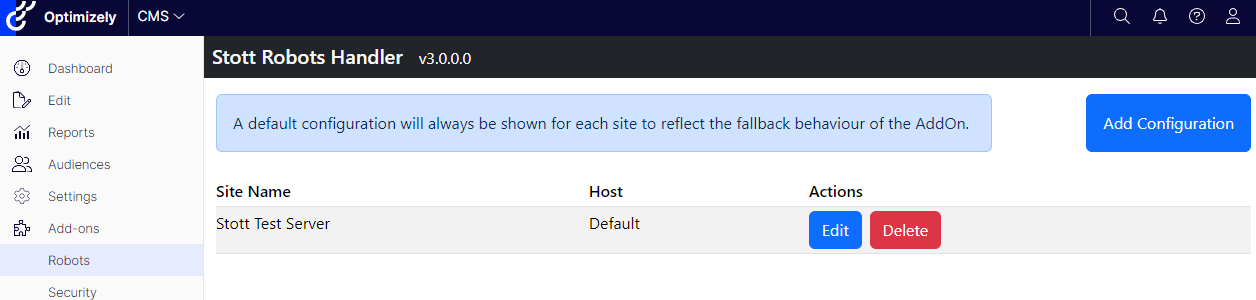
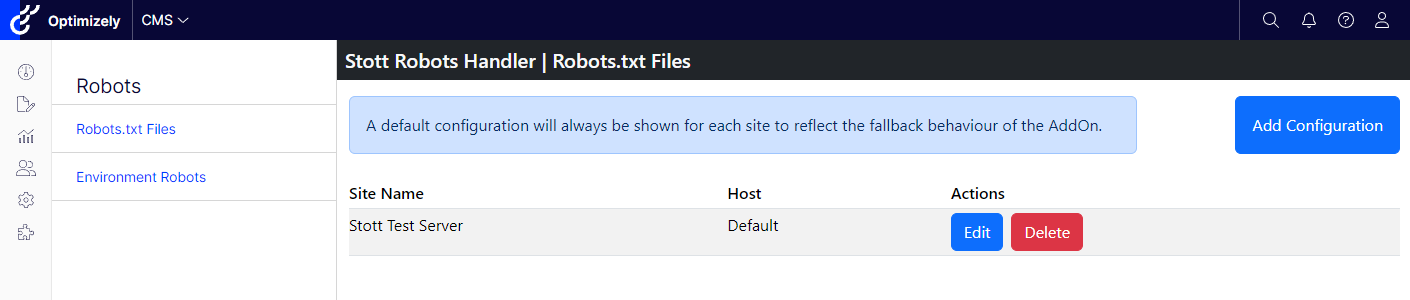
Set version number to 4.0.0 and update documentation.

diff --git a/README.md b/README.md
@@ -6,19 +6,53 @@
 ![GitHub Workflow Status](https://img.shields.io/github/actions/workflow/status/GeekInTheNorth/Stott.Optimizely.RobotsHandler/dotnet.yml?branch=main)
 ![Nuget](https://img.shields.io/nuget/v/Stott.Optimizely.RobotsHandler)
 
-This is an admin extension for Optimizely CMS 12+ for managing robots.txt on a per site and host definition basis.  The Stott.Optimizely.RobotsHandler project is a Razor Class Library which contains Razor Files, static JS files and relevent business logic specific to this functionality.
-
-![Stott Robots Handler](/StottRobotsList1.png)
-
-Stott Robots Handler is a free to use module, however if you want to show your support, buy me a coffee on ko-fi:
+This is an admin extension for Optimizely CMS 12+ for managing robots content. Stott Robots Handler is a free to use module, however if you want to show your support, buy me a coffee on ko-fi:
 
 [![ko-fi](https://ko-fi.com/img/githubbutton_sm.svg)](https://ko-fi.com/V7V0RX2BQ)
 
-## Configuration
+## Robots.Txt Management
+
+Robots.txt content can be managed on a per site and host definition basis.  A host of "default" applies to all unspecified hosts within a site, while specific host definitions will only apply to the specific host.
+
+![Stott Robots Handler, Robots.txt management](/StottRobotsList1.png)
+
+## Environment Robots
+
+_Introduced within version 4.0.0_
+
+Environment Robots allows you to configure the meta robots tag and `X-Robots-Tag` header for all page requests within the current environment.  This functionality provides the ability to prevent search engine robots from scanning indexing a site that is a lower level environment or a production environment that is not ready for general consumption.
+
+Options will always exist for Integration, Preproduction, Production and the current environment name. This allows you to preconfigure a lower enviroment when cloning content from production to lower environments.
+
+![Stott Robots Handler, Environment robots configuration](/StottRobotsList2.png)
+
+When a configuration is active, a Meta Tag Helper will look for and update the meta robots tag while a middleware will include the `X-Robots-Tag` header.  Its best in this case that your solution always renders the meta robots element and allow the Meta Tag Helper to either override it or remove it where needed.
+
+The meta tag helper will execute for any `meta` tag with a `name` attribute.  The logic within the robots tag helper will only execute where the `name` attribute has a value of `robots`.  In such a circumstance it will perform one of the following actions
+
+- When `name` is `robots`
+  - If the page has a robots definition and an environment configuration is not set, then the page robots value will be used.
+  - If the page has a robots definition and an environment configuration is set, then the environment configuration replaces the page definition.
+  - If the page does not have robots definition and an environment configuration is not set, then the meta tag will be removed.
+  - If the page does not have a robots definition and an environment configuration is set, then the meta tag will use the environment configuration
+- When `name` is not `robots`
+  - Preserve existing state.
+
+Examples:
+| Page Robots | Environment Robots | Result |
+|-------------|--------------------|--------|
+| noindex,nofollow | noindex,nofollow,noimageindex | noindex,nofollow,noimageindex |
+| noindex,nofollow | - | noindex,nofollow |
+| - | noindex,nofollow,noimageindex | noindex,nofollow,noimageindex |
+| - | - | _meta robots tag is removed_ |
+
+## Installation
+
+Install the `Stott.Optimizely.RobotsHandler` package into your website.
 
 ### Startup.cs
 
-After pulling in a reference to the Stott.Optimizely.RobotsHandler project, you need to ensure the following lines are added to the startup class of your solution:
+You need to ensure the following lines are added to the startup class of your solution:
 
 ```
 public void ConfigureServices(IServiceCollection services)
@@ -28,6 +62,8 @@ public void ConfigureServices(IServiceCollection services)
 
 public void Configure(IApplicationBuilder app, IWebHostEnvironment env)
 {
+    app.UseRobotsHandler();
+
     app.UseEndpoints(endpoints =>
     {
         endpoints.MapContent();
@@ -36,9 +72,19 @@ public void Configure(IApplicationBuilder app, IWebHostEnvironment env)
 }
 ```
 
-The call to ```services.AddRobotsHandler()``` sets up the dependency injection requirements for the RobotsHandler solution and is required to ensure the solution works as intended.  This works by following the Services Extensions pattern defined by Microsoft.
+The call to `services.AddRobotsHandler()` sets up the dependency injection requirements for the RobotsHandler solution and is required to ensure the solution works as intended.  This works by following the Services Extensions pattern defined by Microsoft.
 
-The call to ```endpoints.MapControllers();``` ensures that the routing for the administration page, assets and robots.txt are correctly mapped.
+The call to `app.UseRobotsHandler()` sets up the middleware required to create the `X-Robots-Tag` header
+
+The call to `endpoints.MapControllers();` ensures that the routing for the administration page, assets and robots.txt are correctly mapped.
+
+### Razor Files
+
+In the `_ViewImports.cshtml` file you will need to add the following line to include meta robots tag helper.  
+
+```
+@addTagHelper *, Stott.Optimizely.RobotsHandler
+```
 
 ### Program.cs
 
